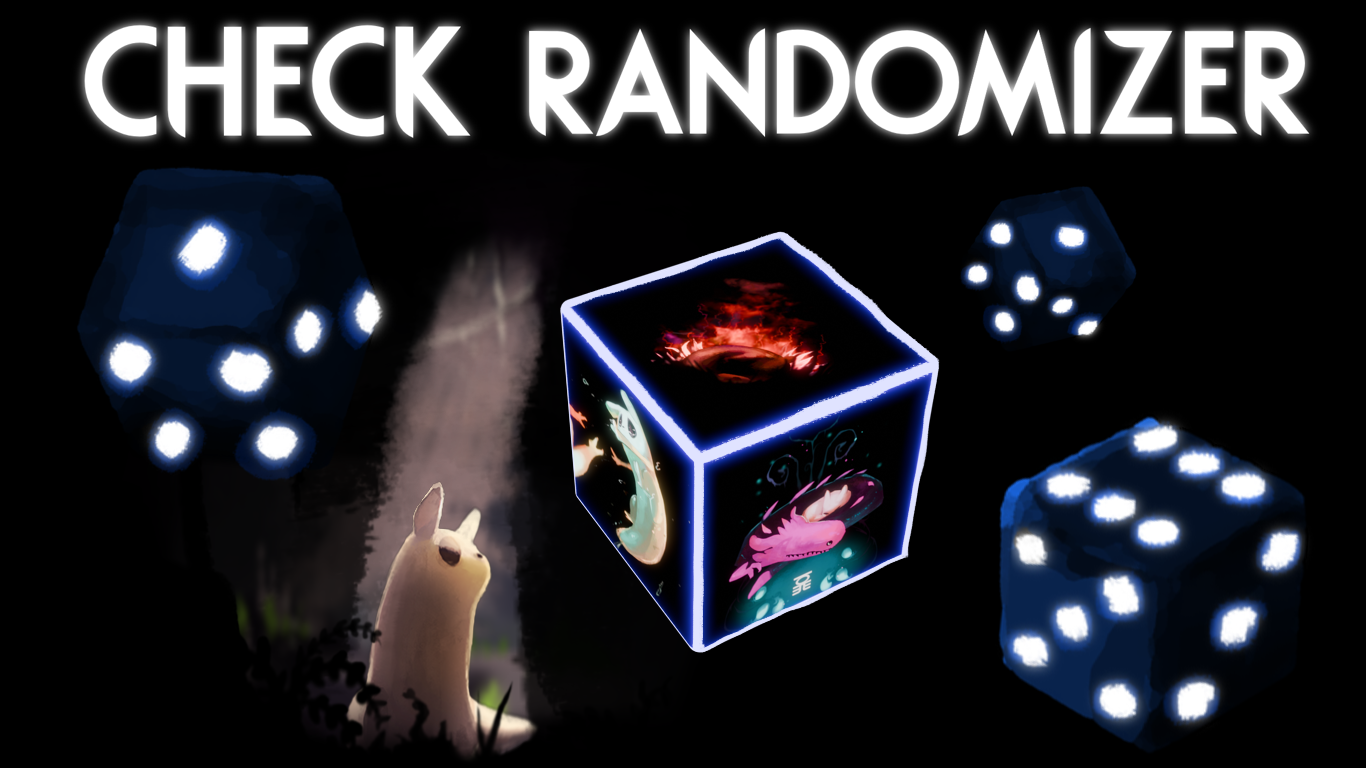
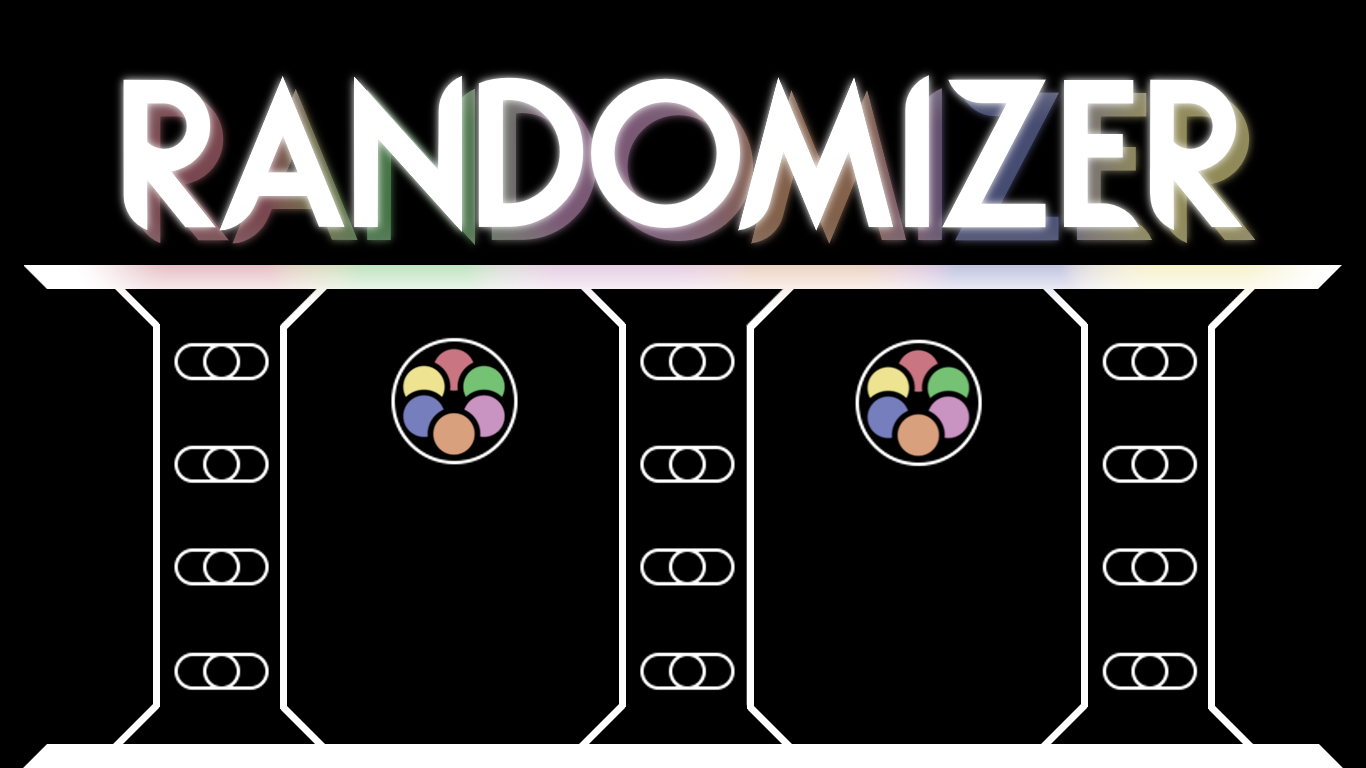
:label: Update metadata display name and thumbnail

diff --git a/Plugin.cs b/Plugin.cs
@@ -17,7 +17,7 @@ namespace RainWorldRandomizer
     public class Plugin : BaseUnityPlugin
     {
         public const string PLUGIN_GUID = "salty_syrup.check_randomizer";
-        public const string PLUGIN_NAME = "Check Randomizer";
+        public const string PLUGIN_NAME = "Randomizer";
         public const string PLUGIN_VERSION = "1.3.6";
 
         internal static ManualLogSource Log;
